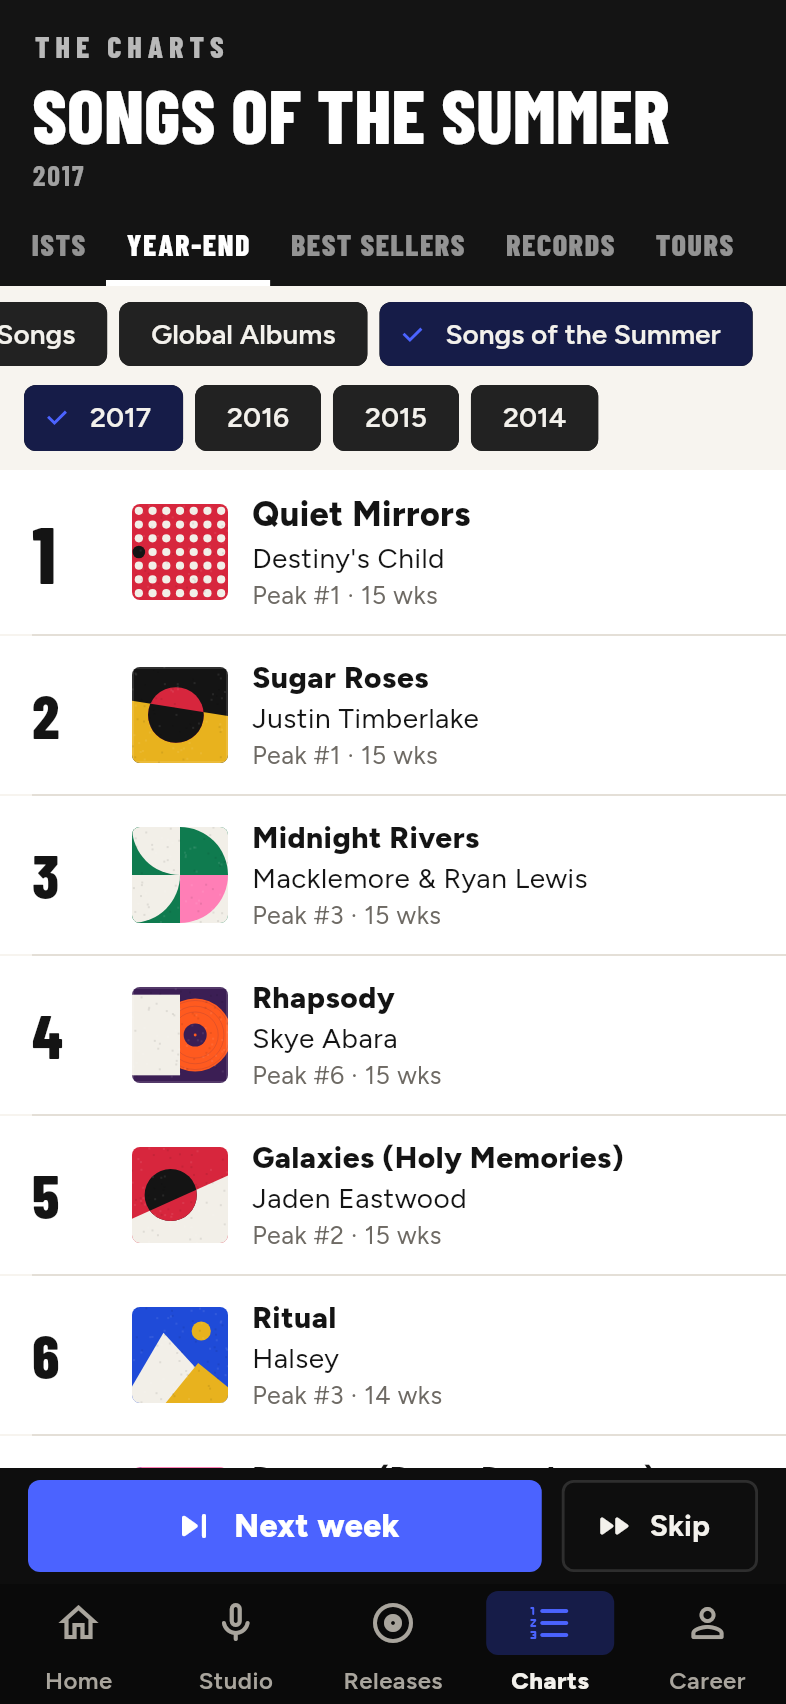
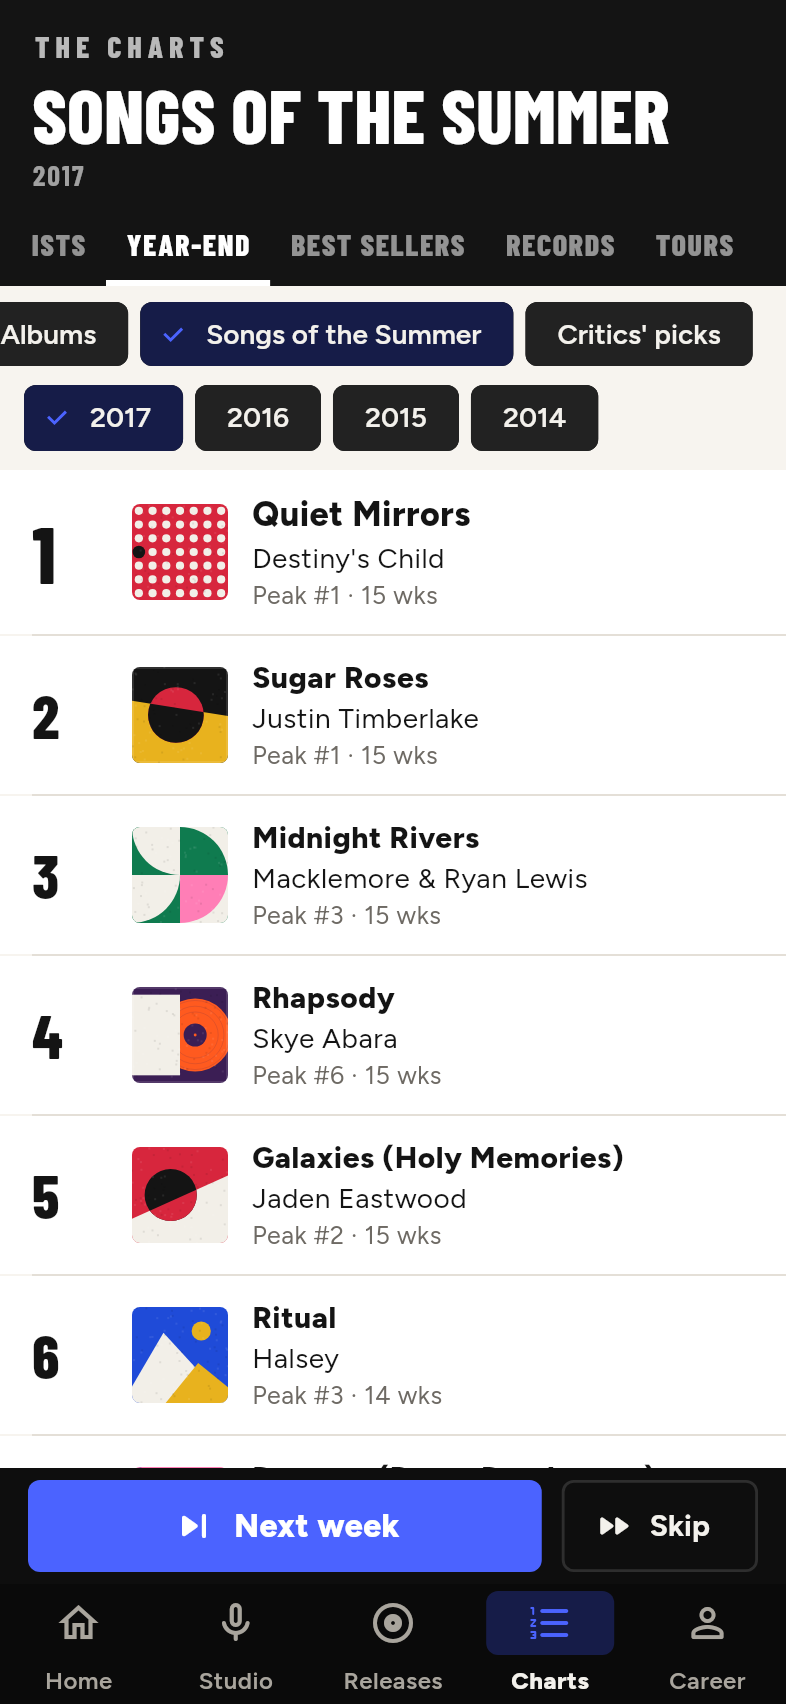
Critics' albums of the year, and a year-end board crash fix (K187)
The year-end board gets a critics' list: the year's reviewed albums and
EPs ranked by Metascore, top 50, with news when the player's album is
on it. Tapping a song on the songs-of-the-summer board looked up chart
-100 and threw; pseudo charts are now handled.

Claude-Session: https://claude.ai/code/session_01UqeaYiXbKvrTFgHV44HcjP

Changed region(s): [[0.0, 0.1555, 0.9771, 0.2177]]

diff --git a/app/lib/screens/charts_tab.dart b/app/lib/screens/charts_tab.dart
@@ -216,7 +216,9 @@ class _ChartsTabState extends State<ChartsTab> {
                           : _chart == _yearEndChart
                               ? (_yearEndOf == YearEnd.summer
                                   ? l.songsOfSummer
-                                  : '${l.chartYearEnd} · ${fmt.chartShort(_yearEndOf)}')
+                                  : _yearEndOf == YearEnd.critics
+                                      ? l.criticsList
+                                      : '${l.chartYearEnd} · ${fmt.chartShort(_yearEndOf)}')
                               : _chart == _bestSellersChart
                                   ? l.chartBestSellers
                                   : _chart == _recordsChart
@@ -374,7 +376,11 @@ class _ChartsTabState extends State<ChartsTab> {
               },
               onOpen: (r) {
                 final career = context.careerRead;
-                final songs = Charts.all[_yearEndOf].kind == ChartKind.songs;
+                // The songs of the summer and the critics' list are pseudo
+                // charts (K137, K187).
+                final songs = _yearEndOf == YearEnd.summer ||
+                    (_yearEndOf >= 0 &&
+                        Charts.all[_yearEndOf].kind == ChartKind.songs);
                 Navigator.push(
                     context,
                     MaterialPageRoute(
@@ -818,8 +824,9 @@ class _YearEndBoard extends StatelessWidget {
     final l = context.l10n;
     final fmt = context.fmt;
     final list = mineOnly ? rows?.where((r) => r.isPlayer).toList() : rows;
-    final albums =
-        chart != YearEnd.summer && Charts.all[chart].kind == ChartKind.albums;
+    final critics = chart == YearEnd.critics;
+    final albums = critics ||
+        (chart != YearEnd.summer && Charts.all[chart].kind == ChartKind.albums);
     return Column(children: [
       SizedBox(
         height: 48,
@@ -835,13 +842,19 @@ class _YearEndBoard extends StatelessWidget {
                 onSelected: onMine,
               ),
             ),
-            for (final c in [...YearEnd.charts, YearEnd.summer])
+            for (final c in [
+              ...YearEnd.charts,
+              YearEnd.summer,
+              YearEnd.critics
+            ])
               Padding(
                 padding: const EdgeInsets.only(right: 6),
                 child: ChoiceChip(
                   label: Text(c == YearEnd.summer
                       ? l.songsOfSummer
-                      : fmt.chartShort(c)),
+                      : c == YearEnd.critics
+                          ? l.criticsList
+                          : fmt.chartShort(c)),
                   selected: chart == c,
                   onSelected: (_) => onChart(c),
                 ),
@@ -932,9 +945,12 @@ class _YearEndBoard extends StatelessWidget {
                                         style: const TextStyle(
                                             color: PaperColors.ink)),
                                     Text(
-                                        albums
-                                            ? '${l.yearEndSold(fmt.compact(r.points.toDouble()))} · ${l.yearEndLine(r.peak, r.weeksOn)}'
-                                            : l.yearEndLine(r.peak, r.weeksOn),
+                                        critics
+                                            ? l.criticsLine(r.points, r.peak)
+                                            : albums
+                                                ? '${l.yearEndSold(fmt.compact(r.points.toDouble()))} · ${l.yearEndLine(r.peak, r.weeksOn)}'
+                                                : l.yearEndLine(
+                                                    r.peak, r.weeksOn),
                                         style: const TextStyle(
                                             fontSize: 12.5,
                                             color: PaperColors.muted)),

diff --git a/packages/game/lib/src/game_session.dart b/packages/game/lib/src/game_session.dart
@@ -2061,6 +2061,7 @@ class GameSession {
   /// albums), not how long it stayed (F73), with its best position and
   /// weeks on.
   List<YearEndRow> yearEnd(int chartId, int year, {int limit = YearEnd.size}) {
+    if (chartId == YearEnd.critics) return _criticsList(year, limit);
     // The songs of the summer: the US songs chart over the summer weeks
     // (docs K137).
     final summer = chartId == YearEnd.summer;
@@ -2085,6 +2086,39 @@ class GameSession {
             points: r['pts'] as int,
             peak: r['peak'] as int,
             weeksOn: r['weeks'] as int),
+    ];
+  }
+
+  /// [year]'s albums ranked by the critics (docs K187): albums and EPs out
+  /// in the year-end tracking year with reviews, by Metascore (ties: the
+  /// better record). Points are the Metascore.
+  List<YearEndRow> _criticsList(int year, int limit) {
+    final w = world;
+    final (from, to) = YearEnd.tracking(year);
+    final albums = [
+      for (final al in w.albums)
+        if (al.releaseWeek >= from &&
+            al.releaseWeek <= to &&
+            al.criticScore >= 0 &&
+            (al.type == AlbumType.album || al.type == AlbumType.ep) &&
+            al.hitIds.isEmpty &&
+            al.liveTour < 0)
+          (al, Critics.metascore(w, al))
+    ]..sort((x, y) {
+        final d = y.$2.compareTo(x.$2);
+        if (d != 0) return d;
+        final q = y.$1.quality.compareTo(x.$1.quality);
+        return q != 0 ? q : x.$1.id.compareTo(y.$1.id);
+      });
+    var rank = 0;
+    return [
+      for (final (al, score) in albums.take(math.min(limit, YearEnd.criticsSize)))
+        YearEndRow.of(w, EntityKind.album,
+            rank: ++rank,
+            entityId: al.id,
+            points: score,
+            peak: al.statsOrNull(Charts.usAlbums)?.peak ?? 0,
+            weeksOn: al.statsOrNull(Charts.usAlbums)?.weeksOn ?? 0),
     ];
   }
 
@@ -3688,6 +3722,12 @@ class GameSession {
       final y = GameTime.yearOf(r.week);
       if (yearEndYears.contains(y)) {
         final songs = yearEnd(Charts.usSongs, y);
+        // The critics' albums of the year (docs K187).
+        final critics = yearEnd(YearEnd.critics, y);
+        final best = critics.where((e) => e.isPlayer).firstOrNull;
+        if (best != null) {
+          events.add(CriticsList(y, best.rank, best.entityId, best.points));
+        }
         events.add(YearEndCharts(y,
             songs: [
               for (final e in songs)

diff --git a/packages/game/test/game_test.dart b/packages/game/test/game_test.dart
@@ -3579,6 +3579,45 @@ void main() {
       expect(listed, greaterThan(plain * 1.05));
     });
 
+    test('the critics\' albums of the year (K187)', () {
+      final g = GameSession.start(
+          slots,
+          _setup(
+              startYear: 2015,
+              premium: true,
+              tier: StartTier.superstar,
+              money: StartMoney.millionaire));
+      final p = g.world.player!;
+      p.moneyCents = 1 << 40;
+      final ids = <int>[];
+      for (var i = 0; i < 10; i++) {
+        p.creativeEnergy = 100;
+        ids.add(g.writeSong(budget: BudgetTier.high).id);
+      }
+      final al = g.releaseAlbum('Reviewed', ids);
+      final events = <GameEvent>[];
+      while (GameTime.weekOfYear(g.week - 1) != YearEnd.publishWeekOfYear) {
+        events.addAll(g.advanceWeek().events);
+      }
+      final year = GameTime.yearOf(g.week - 1);
+      final list = g.yearEnd(YearEnd.critics, year);
+      expect(list, isNotEmpty);
+      expect(list.length, lessThanOrEqualTo(YearEnd.criticsSize));
+      for (var i = 1; i < list.length; i++) {
+        expect(list[i].points, lessThanOrEqualTo(list[i - 1].points));
+      }
+      final mine = list.where((r) => r.entityId == al.id).firstOrNull;
+      final news = events.whereType<CriticsList>().toList();
+      if (mine != null) {
+        expect(news.single.rank, mine.rank);
+        expect(news.single.metascore,
+            Critics.metascore(g.world, g.world.albums[al.id]));
+      } else {
+        expect(news, isEmpty);
+      }
+      g.close();
+    });
+
     test('a single worked to another radio format (K134)', () {
       var g = GameSession.start(slots, _setup());
       final slot = g.slotId;

diff --git a/app/lib/core/event_lines.dart b/app/lib/core/event_lines.dart
@@ -78,6 +78,7 @@ List<EventLine> describeEvents(GameSession s, List<GameEvent> events) {
         BotsCaught() => release(e, EntityKind.song, e.songId),
         RivalBotsCaught() => EventLine(e,
             title: song(e.songId), artistName: w.artists[e.artistId].name),
+        CriticsList() => release(e, EntityKind.album, e.albumId),
         RivalAlbumMove() => EventLine(e,
             title: album(e.albumId),
             albumId: e.albumId,
@@ -240,6 +241,7 @@ List<EventLine> sortLines(List<EventLine> lines) {
         BrandDealBroken() => 2,
         RivalBotsCaught() => 9,
         RivalAlbumMove() => 4,
+        CriticsList() => 1,
         AwardNominated() => 1,
         AwardWinners() => 9,
       };

diff --git a/packages/game/lib/src/views.dart b/packages/game/lib/src/views.dart
@@ -1173,6 +1173,12 @@ abstract final class YearEnd {
   /// The songs of the summer (docs K137): a pseudo chart id for the US
   /// songs chart from late May to early September, out in mid-September.
   static const summer = -100;
+
+  /// The critics' albums of the year (docs K187): a pseudo chart id for
+  /// the year's reviewed albums ranked by their Metascore, out with the
+  /// year-end charts.
+  static const critics = -101;
+  static const criticsSize = 50;
   static const summerFromWeekOfYear = 22, summerToWeekOfYear = 36;
 
   static (int, int) summerTracking(int year) => (

diff --git a/app/lib/widgets/event_icon.dart b/app/lib/widgets/event_icon.dart
@@ -73,6 +73,7 @@ class EventIcon extends StatelessWidget {
       BotsCaught() => (Icons.gpp_bad_rounded, AppColors.coral),
       RivalBotsCaught() => (Icons.newspaper_rounded, AppColors.textMuted),
       RivalAlbumMove() => (Icons.newspaper_rounded, AppColors.textMuted),
+      CriticsList() => (Icons.rate_review_rounded, AppColors.gold),
       PitchDeclined() => (Icons.playlist_remove_rounded, AppColors.textMuted),
       CreatorsFlopped() => (Icons.videocam_off_outlined, AppColors.textMuted),
       HolidayReturn() => (Icons.ac_unit_rounded, AppColors.sky),

diff --git a/packages/game/lib/src/events.dart b/packages/game/lib/src/events.dart
@@ -328,6 +328,17 @@ class YearEndCharts extends GameEvent {
   bool get isIndustry => !hasPlayer;
 }
 
+/// The player's album is on the critics' albums of the year (docs K187).
+class CriticsList extends GameEvent {
+  const CriticsList(this.year, this.rank, this.albumId, this.metascore);
+  final int year;
+  final int rank;
+  final int albumId;
+  final int metascore;
+  @override
+  bool get isMajor => rank <= 10;
+}
+
 /// The player's album or EP came out with no announcement and made
 /// headlines (docs K124).
 class SurpriseDrop extends GameEvent {

diff --git a/packages/game/tool/play.dart b/packages/game/tool/play.dart
@@ -246,6 +246,7 @@ String _event(GameSession s, GameEvent e) => switch (e) {
       BotsCaught() => 'bots caught: ${e.removed.round()} removed',
       RivalBotsCaught() => 'rival bots caught',
       RivalAlbumMove() => 'rival album move: ${e.move.name}',
+      CriticsList() => 'critics list #${e.rank}',
       PitchDeclined() => 'pitch declined',
       CreatorsFlopped() => 'creator campaign flopped ${e.songId}',
       HolidayReturn() => 'holiday song ${e.songId} is back',

diff --git a/app/lib/core/format.dart b/app/lib/core/format.dart
@@ -989,6 +989,7 @@ class Fmt {
       BotsCaught() => l.eventBotsCaught(t, compact(e.removed)),
       RivalBotsCaught() =>
         l.eventRivalBotsCaught(line.artistName, t, compact(e.removed)),
+      CriticsList() => l.eventCriticsList(t, e.year, e.rank, e.metascore),
       RivalAlbumMove() => switch (e.move) {
           RivalMove.surprise => l.eventRivalSurprise(line.artistName, t),
           RivalMove.exclusive =>

diff --git a/tools/l10n/gen_arb.py b/tools/l10n/gen_arb.py
@@ -1317,6 +1317,11 @@ k('pickGrowing','Growing by word of mouth','Kulaktan kulağa büyüyor')
 # Tour legs sized to demand (K181)
 k('tourFit','Fit to demand','Talebe göre')
 
+# Critics' albums of the year (K187)
+k('criticsList','Critics\' picks','Eleştirmenlerin seçimi')
+k('criticsLine','Metascore {score} · best #{peak}','Metascore {score} · en iyi #{peak}', score='int', peak='int')
+k('eventCriticsList','The critics\' albums of {year}: {title} is #{rank} (Metascore {score}).','{year} yılının eleştirmen listesi: {title} #{rank} (Metascore {score}).', title='String', year='int', rank='int', score='int')
+
 # Mood playlists (K186)
 k('moodButton','Pitch to a mood playlist','Ruh hali listesine öner')
 k('moodTitle','Mood playlists','Ruh hali listeleri')

diff --git a/docs/README.md b/docs/README.md
@@ -211,6 +211,7 @@ Bu kararlar alınmıştır; değiştirmek için bilinçli bir revizyon gerekir.
 | K184 | **Otomatik hata avı (fuzz):** `packages/game/tool/fuzz.dart` beş kariyeri (2003 bilinmeyen solo, 2007 yükselen grup, 2013 süperstar, 2018 süperstar vokal grubu, 2021 yerel solo) haftalarca oynuyor: her hafta 60 eylemden rastgele seçip rastgele değerlerle deniyor, bütün ekran verilerini (sanatçı sayfası, listeler, takvim, platformlar, albüm/şarkı, single önerisi…) okuyor, yarım yılda bir kaydı kapatıp yeniden açıyor; oyunun kendi "hayır"ı (GameException) dışındaki her hatayı raporluyor. 3 tur, 15 kariyer, 2–3 yıl: çökme yok. Bulunan 3 kontrol eksiği (çekirdekten iç hata sızıyordu, ekranda genel hata çıkardı) düzeltildi: mixtape/best-of'a ya da çıkmamış albüme deluxe, çıkmamış şarkının paylaşımı, kendine ya da emekli sanatçıya şarkı satmak. Kullanım: `dart run tool/fuzz.dart [hafta] [tohum]`. | Uygulandı |
 | K185 | **Sanatçı seçimi ve geri sayım sayfası (Spotify Artist Pick / Countdown Pages):** Streamify'da kendi sanatçı sayfanda, "Popüler" listesinin üstünde "Sanatçı seçimi" kartı (2016+): bir şarkını, albümünü ya da (2021+) duyurulmuş bir albümünü profilinin en üstüne sabitliyorsun. Sabitlenen şarkı keşif desteği alıyor (+0,06; albümde parçalar +0,1'i paylaşıyor), ama ziyaretçiler hiç değişmeyen bir seçime alışıyor: destek 26 haftada yaklaşık üçte birine iniyor, kartta "Ziyaretçilerin ilgisi: %X". **Geri sayım sayfası:** duyurulmuş albüm sabitlenince pre-save'ler ×1,4 hızlı birikiyor (ölçüm: 4 haftada belirgin fark); albüm çıkınca seçim kendiliğinden o albüme dönüyor. Kayıtta saklanıyor. | Uygulandı |
 | K186 | **Ruh hali listeleri (Peaceful Piano / Beast Mode gibi, 2013+):** Çıkalı en az 8 hafta olmuş bir şarkı, şarkı sayfasından bir kez bir ruh hali listesine önerilebiliyor: Sakin Mod, Antrenman, Parti, Hüzünlü Şarkılar, Odaklan. Her listenin türleri var (ör. Parti: pop, hip-hop, dans, Latin, disko, afrobeats, K-pop; Odaklan: klasik, caz, dans, indie, folk); uyum = tür eşleşmesi (0,6 / 0,15) + şarkının özelliği (Sakin/Odaklan: kalıcılık, Antrenman: viral potansiyel, Parti: ticari+viral, Hüzünlü: kalite). Kabul şansı %10 + %60 × uyum × (0,4 + 0,6 × kalite); seçim ekranında her listenin uyumu ve şansı görünüyor. Kabul edilirse şarkı (uykudaysa uyanıp) +0,3 dinlenme desteği alıyor, yaklaşık bir yılda sönüyor; editör listelerinin aksine eski şarkıları canlı tutuyor. Ölçüm (2016 süperstar, 9 haftalık single): sonraki 4 haftada %9,5 fazla dinlenme. Şarkı sayfasında "X listesinde" ya da "X almadı" etiketi. | Uygulandı |
+| K187 | **Eleştirmenlerin yılın albümleri listesi:** Listeler sekmesindeki yıl sonu panosunda yeni "Eleştirmenlerin seçimi" sekmesi: yıl sonu takip dönemi (Aralık–Kasım) içinde çıkan, eleştirmenlerin değerlendirdiği albüm ve EP'ler (best-of ve canlı albüm hariç) Metascore'a göre (eşitlikte daha iyi kayıt) ilk 50; satırda Metascore ve ABD albüm listesindeki en iyi sıra. Yıl sonu listeleriyle birlikte (Aralık başı) oyuncunun albümü listedeyse haber: "{yıl} yılının eleştirmen listesi: X #N (Metascore M)" (ilk 10 büyük haber). Ayrıca düzeltme: yıl sonu panosunda "Yazın şarkıları" listesindeki bir şarkıya dokununca uygulama hataya düşüyordu (liste kimliği -100 olduğu için); düzeltildi. | Uygulandı |
 | K82 | **Her platformda kendi profilin (F48):** Platform ekranlarının üstünde "Senin sayfan": fotoğraf (Streamify'da Streamify fotoğrafı), ad, mavi tik (fame %10+ veya 100K+ takipçi), takipçi sayısı (ViewTube'da abone), streaming uygulamalarında aylık dinleyici, bu haftaki rakam ve en büyük şarkın. Takipçiler sadık hayran ve sıradan dinleyiciden hesaplanır, platform açıldıktan sonra 4 yılda tam oturur: Streamify %85 hayran + %5 dinleyici; Fruit Music %25 + %2 (Kuzey Amerika'da daha çok); ViewTube %60 + %6 (müzik videosu sayısıyla ×0,8–1,2); NoiseCloud %10 + %0,8; TikTak %25 + %6 (karizmayla ×0,6–1,4). Fruit Tunes indirme mağazası, takipçisi yok. Streamify sanatçı sayfasındaki takipçi sayısı da aynı kuraldan geliyor (rakipler dahil). |
 | K23 | ChatGPT planındaki ekranlar, rekorlar, kampanyalar, finans, bildirimler, ödüller, Kolay mod ve 10 performans kuralı dokümanlara taşındı. |
 
